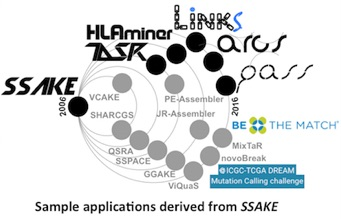
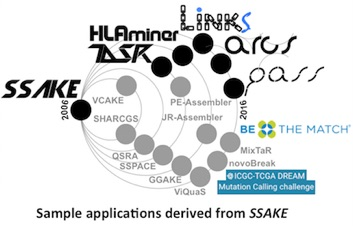
minor changes

diff --git a/renewarren.ca/About.html b/renewarren.ca/About.html
@@ -79,7 +79,7 @@ new Paste('widget0', 'Scripts/Widgets/HTMLRegion', 'Scripts/Widgets/SharedResour
           
 
 
-          <div id="id3" style="height: 32px; left: 98px; position: absolute; top: 269px; width: 115px; z-index: 1; " class="style_SkipStroke shape-with-text">
+          <div id="id3" style="height: 32px; left: 98px; position: absolute; top: 272px; width: 115px; z-index: 1; " class="style_SkipStroke shape-with-text">
             <div class="text-content style_External_115_32" style="padding: 0px; ">
               <div class="style">
                 <p style="padding-bottom: 0pt; padding-top: 0pt; " class="paragraph_style_1"><a onclick="window.open(this.href); return false;" title="http://warrenlr.github.io/cv/PUB_RWARREN.pdf" href="http://warrenlr.github.io/cv/PUB_RWARREN.pdf" onkeypress="window.open(this.href); return false;" class="class2">Publications</a></p>
@@ -180,13 +180,13 @@ new Paste('widget2', 'Scripts/Widgets/HTMLRegion', 'Scripts/Widgets/SharedResour
           
 
 
-          <div style="height: 218px; width: 341px;  height: 218px; left: 291px; position: absolute; top: 67px; width: 341px; z-index: 1; " class="tinyText style_SkipStroke_4 stroke_0">
-            <img src="About_files/Screenshot%202016-01-11%2019.20.14.jpg" alt="" style="border: none; height: 219px; width: 341px; " />
+          <div style="height: 226px; width: 353px;  height: 226px; left: 285px; position: absolute; top: 63px; width: 353px; z-index: 1; " class="tinyText style_SkipStroke_4 stroke_0">
+            <img src="About_files/Screenshot%202016-01-11%2019.20.14.jpg" alt="" style="border: none; height: 226px; width: 353px; " />
           </div>
           
 
 
-          <div class="tinyText" style="height: 25px; left: 135px; position: absolute; top: 297px; width: 41px; z-index: 1; ">
+          <div class="tinyText" style="height: 25px; left: 135px; position: absolute; top: 300px; width: 41px; z-index: 1; ">
             <img usemap="#map1" id="shapeimage_4" src="About_files/shapeimage_4.png" style="border: none; height: 34px; left: -4px; position: absolute; top: -4px; width: 49px; z-index: 1; " alt="(pdf)" title="" /><map name="map1" id="map1"><area href="http://warrenlr.github.io/papers/" title="http://warrenlr.github.io/papers/" onmouseover="IMmouseover('shapeimage_4', '0');" alt="http://warrenlr.github.io/papers/" onmouseout="IMmouseout('shapeimage_4', '0');" shape="rect" coords="8, 8, 39, 26" onclick="window.open(this.href); return false;" onkeypress="window.open(this.href); return false;" /><area href="http://warrenlr.github.io/papers/" title="http://warrenlr.github.io/papers/" alt="http://warrenlr.github.io/papers/" coords="4, 4, 45, 29" onclick="window.open(this.href); return false;" onkeypress="window.open(this.href); return false;" /></map><img style="height: 18px; left: 4px; position: absolute; top: 4px; width: 31px; " id="shapeimage_4_link_0" alt="shapeimage_4_link_0" src="About_files/shapeimage_4_link_0.png" />
           </div>
           <div style="height: 788px; line-height: 788px; " class="spacer"> </div>
